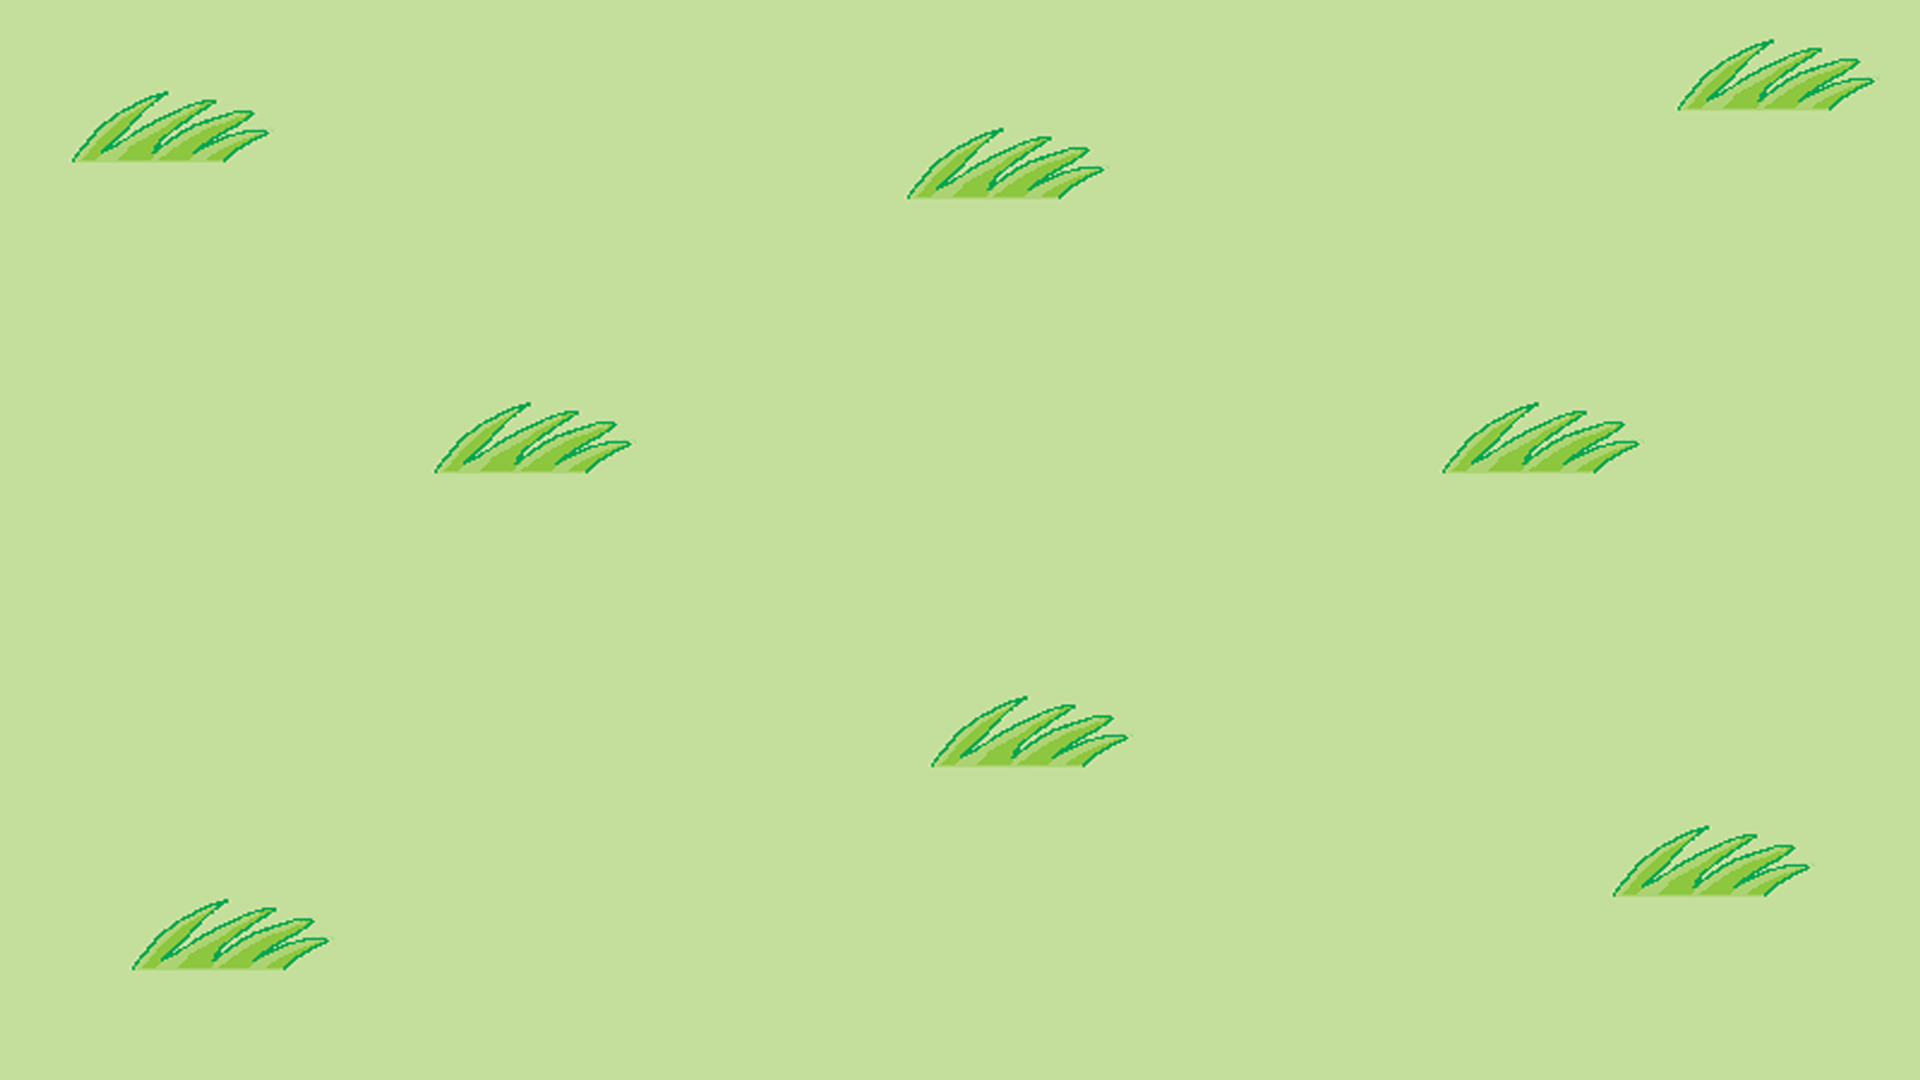
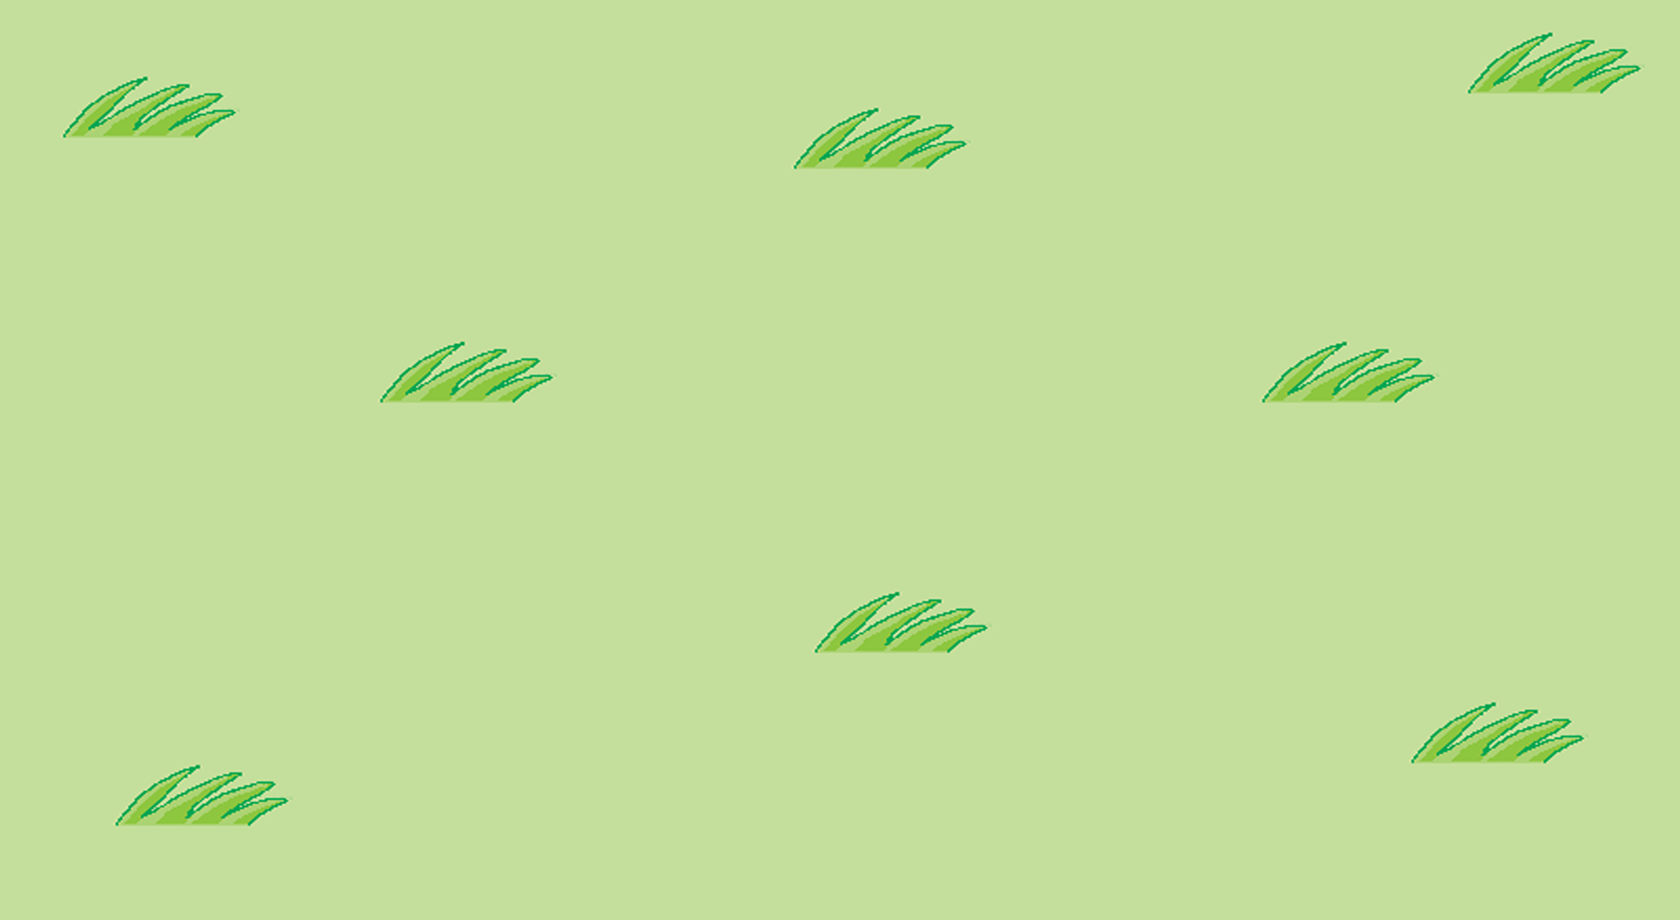
Make background smaller

diff --git a/LittleSnake/Classes/LittleSnakeScene.cpp b/LittleSnake/Classes/LittleSnakeScene.cpp
@@ -30,7 +30,7 @@ bool LittleSnake::init()
     directorOrigin = Director::getInstance()->getVisibleOrigin();
 
     auto background = Sprite::create("background.png");
-    background->setPosition(directorOrigin.x + background->getBoundingBox().size.width/2, directorOrigin.y + background->getBoundingBox().size.height/2);
+    background->setPosition(directorOrigin.x + directorSize.width/2, directorOrigin.y + directorSize.height/2);
     this->addChild(background);
 
     loadSnakeFaces();
@@ -116,8 +116,8 @@ void LittleSnake::initializeSnake()
     snakeBodies = std::vector<SpriteBody*>();
 
 	snakeHeadBody = new SpriteBody();
-    snakeHeadBody->row = MAX_MAP_Y / 2;
-	snakeHeadBody->col = MAX_MAP_X / 2;
+    snakeHeadBody->row = MAX_SCREEN_Y / 2;
+	snakeHeadBody->col = MAX_SCREEN_X / 2;
 
     updateSnakeFace(snakeStandardFace);
     rotateSnakeHead(snakeDirection);
@@ -374,8 +374,8 @@ void LittleSnake::spawnRaspberry()
 
     do
     {
-	    raspberryBody->row = rand() % MAX_MAP_Y;
-	    raspberryBody->col = rand() % MAX_MAP_X;
+	    raspberryBody->row = rand() % MAP_HEIGHT + MIN_MAP_Y;
+	    raspberryBody->col = rand() % MAP_LENGTH + MIN_MAP_X;
     } while (isSnakeCollidingWithRaspberry());
 
 	raspberryBody->sprite->setPosition(getSpritePosWithBlockPos(raspberryBody->row, raspberryBody->col));
@@ -431,7 +431,7 @@ bool LittleSnake::isSnakeEatingItsOwnBody()
 
 bool LittleSnake::isSnakeDead()
 {
-    if (snakeHeadBody->row < 0 || snakeHeadBody->row >= MAX_MAP_Y || snakeHeadBody->col < 0 || snakeHeadBody->col >= MAX_MAP_X)
+    if (snakeHeadBody->row < MIN_MAP_Y || snakeHeadBody->row >= MAX_MAP_Y || snakeHeadBody->col < MIN_MAP_X || snakeHeadBody->col >= MAX_MAP_X)
         return true;
 
     if (isSnakeEatingItsOwnBody())

diff --git a/LittleSnake/Classes/LittleSnakeScene.h b/LittleSnake/Classes/LittleSnakeScene.h
@@ -4,8 +4,15 @@
 #include "cocos2d.h"
 
 const int BLOCK_PIXEL_SIZE = 40;	// width and height of the snake body & the each grid block
-const int MAX_MAP_X = 48;	// HD screen ratio with 40 * 40 blocks
-const int MAX_MAP_Y = 27;	// TODO: remove / 2
+const int MAX_SCREEN_X = 48;
+const int MAX_SCREEN_Y = 27;
+const int MAP_LENGTH = 42;	// HD screen ratio with 40 * 40 blocks - offset.
+const int MAP_HEIGHT = 23;
+
+const int MIN_MAP_X = (MAX_SCREEN_X - MAP_LENGTH) / 2;
+const int MAX_MAP_X = MIN_MAP_X + MAP_LENGTH;
+const int MIN_MAP_Y = (MAX_SCREEN_Y - MAP_HEIGHT) / 2;
+const int MAX_MAP_Y = MIN_MAP_Y + MAP_HEIGHT;
 
 const float SWIPE_GESTURE_THRESHOLD_SCREEN_PERCENTAGE = 0.03f;
 const float GAME_FINISH_DELAY = 0.5f;
@@ -17,7 +24,7 @@ const int RASPBERRY_TO_EAT_COUNT_EASY_MODE = 1;
 
 const float SNAKE_MOVE_INTERVAL_HARDCORE_MODE = 0.1f;
 const int INITIAL_SNAKE_BODY_COUNT_HARDCORE_MODE = 20;
-const int RASPBERRY_TO_EAT_COUNT_HARDCORE_MODE = MAX_MAP_X * MAX_MAP_Y - (INITIAL_SNAKE_BODY_COUNT_HARDCORE_MODE + 1);  // 1 for head
+const int RASPBERRY_TO_EAT_COUNT_HARDCORE_MODE = MAP_LENGTH * MAP_HEIGHT - (INITIAL_SNAKE_BODY_COUNT_HARDCORE_MODE + 1);  // 1 for head
 
 typedef struct {
 	cocos2d::Sprite *sprite;

diff --git a/LittleSnake/Classes/MenuScene.cpp b/LittleSnake/Classes/MenuScene.cpp
@@ -30,7 +30,7 @@ bool MenuScene::init()
     directorOrigin = Director::getInstance()->getVisibleOrigin();
 
     auto background = Sprite::create("background.png"); // use Different Background. Transition seems weird
-    background->setPosition(directorOrigin.x + background->getBoundingBox().size.width/2, directorOrigin.y + background->getBoundingBox().size.height/2);
+    background->setPosition(directorOrigin.x + directorSize.width/2, directorOrigin.y + directorSize.height/2);
     this->addChild(background);
 
     auto menuItem1 = MenuItemFont::create("Easy Mode", CC_CALLBACK_1(MenuScene::startEasyMode, this));
